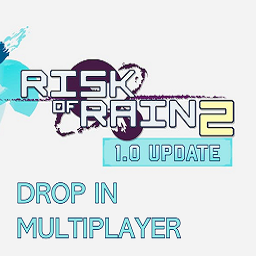
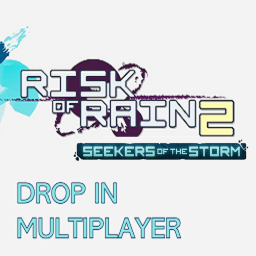
4.0.0 commit

diff --git a/DropInMultiplayerV2/README.md b/DropInMultiplayerV2/README.md
@@ -1,5 +1,5 @@
 # DropInMultiplayer
-The drop in multiplayer mod for Risk of Rain 2!
+The drop in multiplayer mod for Risk of Rain 2, now updated (hopefully) to work with Seekers of the Storm!
 This mod allows the host to have players join mid-game, and automatically gives them items to help them catch up!
 
 If you have any bug reports, ping me on the modding discord (@niwith on https://discord.gg/5MbXZvd), or feel free to private message me.
@@ -44,9 +44,15 @@ Note that in config options "enabled" is true and "disabled" is false.
 Also if updating from an old version of the mod, your old config may hang around, which may have different configraution, and some old no longer used config options. My suggestion is delete your old config file to avoid confusion.
 
 ### Known Issues
+* **DO NOT JOIN AS A DLC CHARACTER IF YOU DO NOT HAVE THE DLC** doing so may cause the game to freeze or crash
 * Ongoing game will cannot be joined through steam - Unfortunetly I believe this is an issue outside of the scope of this mod, if anyone has more understanding of how steam networking works in RoR2 and what would fix the issue please let me know (or submit a pull request)
 
 # Changelog
+### 4.0.0
+* Updated referenced DLLs so that the build is compatible with the updates made in the main game update of Seekers of the Storm
+* Have not tested with the DLC itself, any of the new characters or items. I assume these will work without issue, but please let me know if that's not the case
+* This fix worked with my local testing, however as always please report the issue and **include your logs files**
+
 ### 3.0.0
 * Been a while since an update, this one updates the referenced DLLs
 * If doing this hasn't fixed your issue, please report the issue and include your logs files
